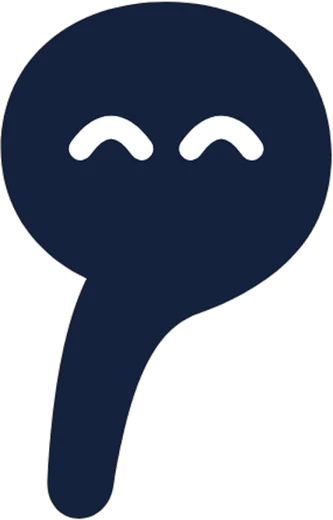
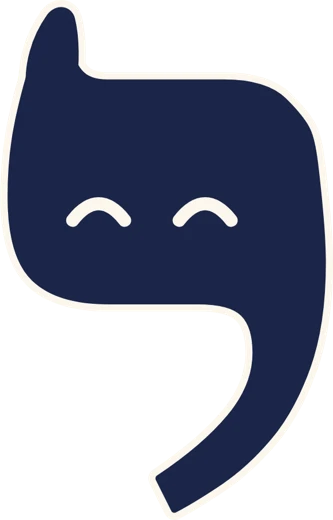
Reader opens on version C with the new letter-shaped Yud
A new edition, "יוד חדשה", shows version C with Yud redrawn as the
letter yud on every page (page 12, which has no Yud, stays as C) and is
the default; the other editions stay for comparison. The closing page
shows the new Yud. The saved reading position moves to a new storage
key so returning readers start on the new edition.

Claude-Session: https://claude.ai/code/session_01RM9coW85MP8Bs6L5qHdrTp

diff --git a/production/reader/index.html b/production/reader/index.html
@@ -46,7 +46,7 @@ header.top{flex:none;display:flex;align-items:center;justify-content:space-betwe
 .t-series{font-size:12px;letter-spacing:.08em;color:var(--chrome-soft)}
 .t-book{font-family:var(--serif);font-weight:700;font-size:21px;line-height:1.2}
 .eds-block{display:flex;flex-direction:column;align-items:flex-end;gap:4px}
-.eds{display:flex;align-items:center;gap:6px}
+.eds{display:flex;align-items:center;justify-content:flex-end;flex-wrap:wrap;gap:6px}
 .eds-label{font-size:13px;color:var(--chrome-soft);margin-inline-end:2px}
 .chip{border:1px solid var(--chip-line);background:var(--chip);border-radius:999px;min-width:40px;height:34px;padding:0 12px;font-size:14px;font-weight:600;cursor:pointer;font-variant-numeric:tabular-nums}
 .chip[aria-pressed="true"]{background:var(--chip-on);border-color:var(--chip-on);color:var(--chip-on-ink)}
@@ -174,6 +174,8 @@ nav.bar{flex:none;display:flex;align-items:center;justify-content:center;gap:10p
   .title-block{display:none}
   header.top{justify-content:center}
   .eds-block{align-items:center}
+  .eds{justify-content:center}
+  .eds-label{display:none}
   .nav .lbl{display:none}
   .nav{width:44px;padding:0;justify-content:center}
   .pos{min-width:7.5em}
@@ -223,12 +225,13 @@ nav.bar{flex:none;display:flex;align-items:center;justify-content:center;gap:10p
 </section>
 
 <script>
-const DATA = {"pages": [{"id": "cover", "num": "", "text": "הַמִּלָּה הָאַחֲרוֹנָה", "sub": "יוּד הַקְּטַנָּה וְהַקְּרִיאָה שֶׁל כּוֹרֶשׁ מֶלֶךְ פָּרַס", "source": "", "layers": [], "v": ["A", "B", "C", "D"], "rec": "A"}, {"id": "p01", "num": "1", "text": "בַּמִּלָּה הָאַחֲרוֹנָה שֶׁל הַתַּנַ״ךְ גָּרָה יוּד, הָאוֹת הַכִּי קְטַנָּה וְהַכִּי בַּסּוֹף.", "sub": "", "source": "דברי הימים ב לו, כג (המילה האחרונה: \"וְיָעַל\"); סדר הספרים: בבא בתרא יד ע\"ב", "layers": [["פשט", "המגילה היא עיר ישנה של שורות. בקצה הרחוב האחרון, למטה משמאל, דולק חלון אחד בגודל של מילה: וְיָעַל. יוד בתוכו."], ["רמז", "24 רחובות, כמו 24 ספרי התנ״ך: 5 בתורה, 8 בנביאים ו-11 בכתובים. זה גם מספר הפרקים בסדרה. החלון של יוד נמצא בקצה הרחוב ה-24, הספר האחרון."], ["דרש", "נוצה שחורה וקטנה של עורב. המדרש אומר: אם כל באי העולם יתאספו להלבין כנף אחת של עורב, הם לא יוכלו. וכך, אם יתאספו לעקור יוד אחת מן התורה, האות הקטנה מכולן, גם זה לא יצליח. יוד במקום שלה, ואף אחד לא יזיז אותה משם."], ["סוד", "בתחילת הרחוב הראשון, למעלה מימין, מהבהבת גחלת זעירה, כי גם במילה הראשונה בתנ״ך, בְּרֵאשִׁית, יש יוד. האור שבסוף קשור לאור שבהתחלה, “כשלהבת קשורה בגחלת”. יוד עוד לא יודעת, אבל ההתחלה כבר דולקת."]], "v": ["A", "B", "C", "D"], "rec": "A"}, {"id": "p02", "num": "2", "text": "\"עַל נַהֲרוֹת בָּבֶל, שָׁם יָשַׁבְנוּ, גַּם בָּכִינוּ, בְּזָכְרֵנוּ אֶת צִיּוֹן.\"", "sub": "", "source": "תהילים קלז, א (ציטוט מדויק)", "layers": [["פשט", "לילה. גולים יושבים בשורה על גדת תעלה, ראשיהם מורכנים ופניהם שמאלה, אל ציון. מעבר למים חומת לבנים כחולה וסגורה. יוד על ענף צפצפה."], ["רמז", "שבעים נצנוצים קטנים על המים. האות ע׳ במילה וְיָעַל שווה 70, וזה מספר השנים שנקצב לבבל: “לְפִי מְלֹאת לְבָבֶל שִׁבְעִים שָׁנָה”. המספר שוכב על המים של בבל ומחכה שיתמלא."], ["דרש", "בית קטן ונמוך בקצה השורה, ובו פתח אחד מואר באור חם. על הפסוק “וָאֱהִי לָהֶם לְמִקְדָּשׁ מְעַט” אמרו חז״ל: אלו בתי הכנסת ובתי המדרש שבבבל. גם רחוק מהבית היה להם מקום קטן של אור. ובאותו עמוד בגמרא: “גלו לבבל, שכינה עמהן”."]], "v": ["A", "B", "C", "D"], "rec": "B"}, {"id": "p03", "num": "3", "text": "שָׁנִים רַבּוֹת שָׁתְקוּ הַכִּנּוֹרוֹת עַל הָעֲרָבִים. וְיוּד חִכְּתָה.", "sub": "", "source": "תהילים קלז, ב (\"עַל עֲרָבִים בְּתוֹכָהּ תָּלִינוּ כִּנֹּרוֹתֵינוּ\"). \"שָׁנִים רַבּוֹת\" ולא שבעים: שבעים השנה הן מניין הנבואה (ירמיהו כט, י; דברי הימים ב לו, כא), ראו הערה 3", "layers": [["פשט", "תקריב: שלושה כינורות עתיקים תלויים שותקים על ענף אלכסוני, המיתרים רפויים ומאובקים. יוד יושבת על אחד מהם ומחכה."], ["דרש", "ספרו את המיתרים: 7, 8 ו-10. הגמרא אומרת שלכינור של המקדש היו שבעה מיתרים, לכינור של ימות המשיח יהיו שמונה, ולכינור של העולם הבא עשרה. יוד יושבת על הכינור בן עשרת המיתרים, כי י׳ שווה 10, ובגמרא גם נאמר ש“העולם הבא נברא ביו״ד”. הכינורות שותקים עכשיו, אבל העתיד כבר תלוי על הענף."]], "v": ["A", "B", "C", "D"], "rec": "C"}, {"id": "p04", "num": "4", "text": "", "sub": "עמוד בלי מילים", "source": "עזרא א, א; דברי הימים ב לו, כב (\"הֵעִיר ה׳\"): רמז חזותי בלבד, בלי ציור של הקב\"ה", "layers": [["פשט", "בלי מילים: סרט זהב אחד של רוח לילה עובר מימין לשמאל. רואים את הרוח רק במה שהיא מכופפת: עלים, להבת נר, יריעת אוהל ומיתר אחד. יוד מתעוררת על הכינור שמתנדנד."], ["דרש", "רוח לילה שמנגנת בכינור מעצמה. כך מספרת הגמרא על דוד: מעל מיטתו היה תלוי כינור. בחצות הלילה באה רוח צפונית ונשבה בו, והכינור ניגן מאליו. דוד היה קם ולומד עד עלות השחר. גם כאן הרוח מנגנת, ומי שמתעוררת היא יוד."]], "v": ["A", "B", "C", "D"], "rec": "A"}, {"id": "p05", "num": "5", "text": "הֵעִיר ה׳ אֶת רוּחַ כּוֹרֶשׁ מֶלֶךְ פָּרַס.", "sub": "", "source": "דברי הימים ב לו, כב; עזרא א, א (ציטוט מדויק)", "layers": [["פשט", "חזית ארמון בהירה בסגנון פסרגדאי. כל החלונות חשוכים חוץ מפתח גבוה אחד מוזהב. סרט הזהב זורם לתוכו, ויוד אוחזת בו בזנב ובוחרת להמשיך איתו."], ["רמז", "בתחתית התמונה, לרגלי הארמון, מציץ גן עם ארבע תעלות מים שנפגשות באמצע. המילה פַּרְדֵּס קשורה למילה הפרסית העתיקה לגן מוקף חומה, ובתנ״ך היא מופיעה בשיר השירים ד, יג, בקהלת ב, ה ובנחמיה ב, ח (“שֹׁמֵר הַפַּרְדֵּס אֲשֶׁר לַמֶּלֶךְ”). ארבע התעלות הן ארבע השכבות של הספר: פשט, רמז, דרש וסוד."], ["סוד", "הרוח באה מלמעלה ומזמינה, ויוד בוחרת להיאחז בה. במקום שבו הזנב שלה נכרך סביב הסרט, הזהב מתחזק: שם נפגשת ההתעוררות שבאה מלמעלה עם הבחירה שבאה מלמטה. גם הפשט אומר זאת. אותה מילה, “הֵעִיר”, נאמרת על כורש (עזרא א, א) ועל העם: “לְכֹל הֵעִיר הָאֱלֹהִים אֶת רוּחוֹ לַעֲלוֹת” (עזרא א, ה). אבל לעלות, כל אחד צריך בעצמו."]], "v": ["A", "B", "C", "D"], "rec": "A"}, {"id": "p06", "num": "6", "text": "\"מִי בָכֶם מִכָּל עַמּוֹ, ה׳ אֱלֹהָיו עִמּוֹ, וְיָעַל!\"", "sub": "", "source": "דברי הימים ב לו, כג: סוף הפסוק כלשונו, סוף התנ\"ך. הכרוז: \"וַיַּעֲבֶר קוֹל בְּכָל מַלְכוּתוֹ וְגַם בְּמִכְתָּב\" (לו, כב)", "layers": [["פשט", "שחר. כרוז פרסי קטן עומד על מדרגה ליד חומת לבנים מזוגגות, ובידו מגילה פתוחה בלי כתב. קשתות קול זהובות רצות לאורך רצועות העיטור אל יוד, שיושבת בראש החומה."], ["רמז", "שלוש קשתות קול שוות בדיוק. בסוף הפסוק האחרון יש שלוש מילים עם אותו ערך מספרי: עַמּוֹ 116, עִמּוֹ 116 ווְיָעַל 116. העם, האלוהים שעמו והעלייה, כולם באותו מספר."]], "v": ["A", "B", "C", "D"], "rec": "A"}, {"id": "p07", "num": "7", "text": "וְיָעַל?! יוּד קָפְצָה. \"זֹאת הַמִּלָּה שֶׁלִּי!\"", "sub": "", "source": "דברי הימים ב לו, כג; עזרא א, ג (\"וְיַעַל לִירוּשָׁלַיִם\")", "layers": [["פשט", "תקריב על שדה זהב: יוד באמצע קפיצה של שמחה, וקשתות הקול מסתלסלות סביבה כמו סרטים. הרחק למטה, קו של גבעות ושביל שעולה שמאלה."], ["רמז", "סביב יוד מסתלסלות בדיוק עשר קשתות קול. י׳ שווה 10, והעולם נברא בעשרה מאמרות. הגמרא מוסיפה ש“בְּרֵאשִׁית” עצמה נחשבת מאמר. כלומר, הראשון מבין עשרת המאמרות הוא בדיוק המקום שאליו יוד תגיע בסוף הסדרה."], ["דרש", "בראש השביל, על הגבעה הרחוקה, מונחת אבן בנייה אחת ומחכה. חז״ל אמרו שהקב״ה “קובל” על כורש: הנביא אמר עליו “הוּא יִבְנֶה”, וכורש אמר רק “וְיָעַל”, כלומר מי שרוצה, שיעלה. הוא לא בנה בעצמו, אלא השאיר את הבנייה למי שעולה. זו המילה שיוד כל כך שמחה בה: מילה שמזמינה כל אחד לבוא ולבנות."], ["סוד", "כל עשר הקשתות יוצאות מנקודה אחת: נקודת האור הלבנה שמעל יוד. היוד היא הנקודה הראשונה. כל אות נכתבת מנקודה, ובקבלה י׳ היא החכמה, הנקודה שממנה הכול מתפשט. מנקודה אחת יוצאות עשר."]], "v": ["A", "B", "C", "D"], "rec": "B"}, {"id": "p08", "num": "8", "text": "אָרְזוּ צְרוֹרוֹת לִירוּשָׁלַיִם. הַשְּׁכֵנִים נָתְנוּ כֶּסֶף וְזָהָב. הַגָּמָל, כְּמוֹ כָּל גָּמָל, רָטַן.", "sub": "", "source": "עזרא א, ד; א, ו (השכנים נותנים כסף, זהב, רכוש ובהמה). הגמל הרוטן ספרותי", "layers": [["פשט", "חצר אריזה בבוקר: גמל גדול רוטן כורע בקדמת התמונה. סבתא ואב אורזים צרורות, ושני שכנים בגלימות בבליות מגישים קערת כסף וכד זהב. יוד צוחקת על הצרור הגבוה."], ["רמז", "אותה רוח זהב מעמודים 4–5 מרימה ציצית אחת ברתמה של הגמל. בפשט אותה מילה נאמרת פעמיים: ה׳ “הֵעִיר” את רוח כורש (עזרא א, א), וגם את רוחם של העולים, “לְכֹל הֵעִיר הָאֱלֹהִים אֶת רוּחוֹ לַעֲלוֹת” (עזרא א, ה). הגמל אולי רוטן, אבל הרוח כבר כאן."], ["דרש", "ליד הרגליים של אחד השכנים מונח צרור קטן וקשור. אולי גם הוא מצטרף? המשנה מונה גרים בין אלה שעלו מבבל. הגמרא אומרת שהגלות הייתה כדי “שיתוספו עליהם גרים”, כמו מי שזורע מעט כדי לקצור הרבה."]], "v": ["A", "B", "C", "D"], "rec": "A"}, {"id": "p09", "num": "9", "text": "גַּם כְּלֵי בֵּית ה׳ חוֹזְרִים הַבַּיְתָה. יוּד הֵצִיצָה מִתּוֹךְ קְעָרָה.", "sub": "", "source": "עזרא א, ז–יא (כורש מוציא את הכלים, ומתרדת הגזבר סופר אותם לששבצר). פשט, בלי מספר כלים. ההצצה של יוד ספרותית", "layers": [["פשט", "תקריב: שתי ידיים, אחת בשרוול פרסי מקופל ואחת בשרוול יהודי פשוט, מעבירות קערת זהב אחת מסף האוצר החשוך אל אור היום. יוד מציצה מעל השפה."], ["רמז", "על שפת הקערה יש 30 נקודות קטנות. ברשימת הכלים בעזרא מופיעים בדיוק “כְּפוֹרֵי זָהָב שְׁלֹשִׁים”, שלושים קערות זהב, והקערה של יוד היא אחת מהן. 30 הוא גם ל׳, האות האחרונה של וְיָעַל ושל התנ״ך כולו. בעמוד הבא המספר יחזור."]], "v": ["A", "B", "C", "D"], "rec": "C"}, {"id": "p10", "num": "10", "text": "חֲמוֹרִים: שֵׁשֶׁת אֲלָפִים שְׁבַע מֵאוֹת וְעֶשְׂרִים! יוּד הִתְבַּלְבְּלָה בַּחֲמוֹר הַשְּׁלֹשִׁים.", "sub": "", "source": "עזרא ב, סז (\"חֲמֹרִים שֵׁשֶׁת אֲלָפִים שְׁבַע מֵאוֹת וְעֶשְׂרִים\"); המקבילה בנחמיה ז, סח (לאמת)", "layers": [["פשט", "קנה מידה קומי: שורות זיגזג אינסופיות של חמורים זהים צועדות שמאלה עד האופק. יוד יושבת על סלע בקדמת התמונה, והעיניים שלה מסתחררות."], ["רמז", "יוד התבלבלה בחמור השלושים, והחמור השלושים באמת מסובב את הראש ומסתכל עליה. 30 הוא ל׳, האות האחרונה של התנ״ך. יוד נתקעה בדיוק בסוף, אז אין פלא שבעוד רגע היא תרצה לחזור להתחלה."]], "v": ["A", "B", "C", "D"], "rec": "B"}, {"id": "p11", "num": "11", "text": "יַלְדָּה קְטַנָּה שָׁאֲלָה: \"גַּם אֲנִי? אֲנִי עוֹד קְטַנָּה.\" \"גַּם אַתְּ.\"", "sub": "", "source": "דברי הימים ב לו, כג (\"מִי בָכֶם מִכָּל עַמּוֹ\": ההזמנה לכל אחד). הדו-שיח ספרותי", "layers": [["פשט", "בגובה העיניים של ילדה: יער של רגלי חמורים ושולי גלימות עובר שמאלה. באמצע עומדת ילדה קטנה עם צרור, ומלמעלה מושטת אליה היד הפתוחה של אמא. יוד יושבת על הצרור."], ["רמז", "התשובה לשאלה של הילדה כבר כתובה בפסוק: מִי = 50 (מ׳ 40, י׳ 10), וכָּל = 50 (כ׳ 20, ל׳ 30). מי ששואל “מי? גם אני?” שווה בדיוק ל“כל”. לכן בשולי השמלה של הילדה יש אותה רצועה ארוגה שיש על השרוול של אמא, רק קטנה יותר."], ["דרש", "מהקשר של הצרור מציץ ענף ערבה קטן מנהרות בבל. המדרש אומר שהערבה היא היחידה מארבעת המינים שאין בה לא טעם ולא ריח, ובכל זאת אוגדים אותה יחד עם כולם, “אגודה אחת”. גם הקטנה ביותר שייכת."]], "v": ["A", "B", "C", "D"], "rec": "B"}, {"id": "p12", "num": "12", "text": "בְּלִי יוּד — \"וְעַל\". עִם יוּד — \"וְיָעַל\": מִישֶׁהוּ עוֹלֶה!", "sub": "", "source": "דברי הימים ב לו, כג. משחק לשון של המחבר, לא מדרש: \"וְיָעַל\" = שֶׁיַּעֲלֶה", "layers": [["פשט", "עמוד גרפי בשני חצאים. מימין, בוורוד מאובק: שלוש משבצות ורווח, “וְעַל”, בלי יוד. משמאל, בזהב חם: ארבע משבצות, ויוד במשבצת השנייה מימין, “וְיָעַל”. מישהו עולה!"], ["רמז", "ההתחלה והסוף כמו בראי. במילה האחרונה בתנ״ך, וְיָעַל, היוד היא האות השנייה מההתחלה. במילה הראשונה, בְּרֵאשִׁית, היא האות השנייה מהסוף. אותו מקום, רק הפוך."], ["דרש", "על רכס הדיונה הרחוק, בצד הזהב, עומד כינור זעיר עם מיתרים מתוחים. חז״ל דרשו את היוד של העתיד: כתוב “אָז יָשִׁיר מֹשֶׁה” ולא “שר”, ומכאן למדו הבטחה לעתיד, תחיית המתים מן התורה. היוד הופכת את מה שהיה למה שעוד יהיה. כך גם וְיָעַל: לא “עלה” אלא “שיעלה”. והכינורות השותקים מעמוד 3 עוד ישירו."]], "v": ["A", "B", "C"], "rec": "C"}, {"id": "p13", "num": "13", "text": "הַשַּׁיָּרָה עָלְתָה קָדִימָה. יוּד הִסְתַּכְּלָה אָחוֹרָה: \"אִם אֲנִי בַּסּוֹף... מָה יֵשׁ בַּהַתְחָלָה?\"", "sub": "", "source": "עזרא ב, א (\"הָעֹלִים מִשְּׁבִי הַגּוֹלָה\"); עזרא א, יא (\"עִם הֵעָלוֹת הַגּוֹלָה מִבָּבֶל לִירוּשָׁלָםִ\"). שאלת יוד: רעיון הסדרה", "layers": [["פשט", "שקיעה רחבה: השיירה כולה מתפתלת שמאלה על הדיונות. לבד על רכס, למטה מימין, יוד פונה לצד השני, אל זוהר רחוק באופק הימני."], ["רמז", "נקודת האור יושבת בדיוק בתוך קשת הדקלים שבאופק המזרחי. בעברית, קֶדֶם הוא גם מזרח וגם “לפני הכול”. על “וַיִּטַּע ה׳ אֱלֹהִים גַּן בְּעֵדֶן מִקֶּדֶם” רש״י מפרש “במזרחו של עדן”, ואונקלוס מתרגם “מִלְּקַדְמִין”, מלפנים. כשיוד מביטה מזרחה, היא מביטה אל ההתחלה."], ["סוד", "בפעם הראשונה נקודת האור רחוקה, והיא הקטנה והנקייה ביותר בספר: נקודה כמעט בלי גודל, שמחכה בהתחלה. בזוהר, בתחילת הבריאה יש “נקודה חדא עלאה”, נקודה עליונה אחת שממנה מתחיל הכול, “ועל דא אקרי ראשית”. מה שיש בהתחלה הוא נקודה של אור, ויוד עוד תגלה שזו היא עצמה."]], "v": ["A", "B", "C", "D"], "rec": "B"}, {"id": "p14", "num": "14", "text": "\"אֲנִי אֶעֱלֶה,\" אָמְרָה יוּד, \"אֲבָל אָחוֹרָה — עַד הַהַתְחָלָה!\"", "sub": "", "source": "משחק על \"וְיָעַל\" (דברי הימים ב לו, כג). החלטת יוד ספרותית", "layers": [["פשט", "אור ראשון: יוד זקופה ונחושה פונה אל הקצה הימני, ומנופפת בזנבה לשלום לנקודות השיירה הרחוקות משמאל. הצל שלה נמתח ארוך שמאלה."], ["רמז", "יוד יוצאת מהאות האחרונה של התנ״ך אל האות הראשונה שלו: מל׳ של וְיָעַל אל ב׳ של בְּרֵאשִׁית. יחד ל׳ וב׳ הן לֵב. מסע אחורה, מהסוף להתחלה, הוא מסע של הלב."], ["דרש", "כוכב השחר הוא הנקודה האחרונה שנשארה בשמיים. הגמרא שואלת: “למה נמשלה אסתר לשחר?”, ועונה: “מה שחר סוף כל הלילה, אף אסתר סוף כל הנסים”. האור שמסיים את הלילה הוא גם האור שפותח את היום. ובמסע אחורה, אסתר מחכה בפרק 4."]], "v": ["A", "B", "C", "D"], "rec": "A"}, {"id": "p15", "num": "15", "text": "בֵּין הַשּׁוּרוֹת הִבְהֵב חוּט זָהָב. יוּד אָחֲזָה בּוֹ בַּזָּנָב — וְטִפְּסָה.", "sub": "", "source": "חוט הזהב: אמצעי המסע של הסדרה (ספרותי, אין לו מקור)", "layers": [["פשט", "הדיונות הופכות לשורות של המגילה הגדולה, וחוט זהב דק מתפתל ביניהן למעלה וימינה. יוד אוחזת בו בזנבה המסולסל ומטפסת, שמחה."], ["רמז", "לאורך החוט יש בדיוק 15 ניצני לוטוס, כמו 15 מזמורי “שִׁיר הַמַּעֲלוֹת” בתהילים (קכ–קלד), שכנגדם היו 15 מדרגות במקדש. מַעֲלוֹת ווְיָעַל באים מאותו שורש, ע-ל-ה. ביניהם גם “שִׁיר הַמַּעֲלוֹת בְּשׁוּב ה׳ אֶת שִׁיבַת צִיּוֹן הָיִינוּ כְּחֹלְמִים” (תהילים קכו, א). וזה עמוד 15."], ["סוד", "מתוך 15 הניצנים, 5 נמצאים מאחורי יוד, בחלק שכבר טיפסה, ו-10 לפניה. ה׳ היא 5 וי׳ היא 10, ויחד הן יָהּ. “כִּי בְּיָהּ ה׳ צוּר עוֹלָמִים”: העולם הזה נברא בה״א, והעולם הבא ביו״ד. יוד מטפסת מן הה״א אל היו״ד, ומה שמחכה לה בסוף הדרך, בהתחלה, הוא יוד."]], "v": ["A", "B", "C", "D"], "rec": "B"}, {"id": "p16", "num": "16", "text": "טַק... טַק... טַק... מִי בּוֹנֶה שָׁם?", "sub": "", "source": "רמז לפרק 2: \"לְכוּ וְנִבְנֶה אֶת חוֹמַת יְרוּשָׁלַיִם\" (נחמיה ב, יז). החומה שייכת לימי נחמיה (כ-445 לפנה\"ס), לא לשיירה של 538", "layers": [["פשט", "שחר מוזהב: פינה של חומת אבן ירושלמית בהירה ושבורה ממלאת את השליש הימני של התמונה. חוט הזהב נכנס לתוכה, ויוד מביטה אלינו בסקרנות. מאחורי החומה מישהו בונה: טק, טק, טק."], ["רמז", "הפרצה בחומה היא בדיוק בצורת יוד. וגם בכתיב חסרה לירושלים יוד: כמעט בכל התנ״ך, וגם בפסוק האחרון שלו (“לִבְנוֹת לוֹ בַיִת בִּירוּשָׁלַםִ”), השם נכתב ירושלם, בלי יוד, ונקרא יְרוּשָׁלַיִם. העיר מחכה ליוד שלה."], ["דרש", "אור עובר דרך הפרצה הקטנה, ועל האדמה שלפני החומה הוא נפרש לשער רחב וגבוה. המדרש אומר: “פתחו לי פתח אחד... כחודה של מחט, ואני פותח לכם פתחים שיהיו עגלות וקרוניות נכנסות בו”. פתח קטן כמו יוד, ומעבר לו דרך רחבה לכולם."]], "v": ["A", "B", "C", "D"], "rec": "B"}], "teaser": "בַּפֶּרֶק הַבָּא: חוֹמָה שְׁבוּרָה, הַרְבֵּה יָדַיִם, וְקוֹל אֶחָד: \"לְכוּ וְנִבְנֶה!\" וּבַחוֹמָה — חוֹר קָטָן אֶחָד, בְּדִיּוּק בַּגֹּדֶל שֶׁל יוּד.", "questions": ["יוּד שָׁאֲלָה: \"מָה יֵשׁ בַּהַתְחָלָה?\" מָה אַתֶּם חוֹשְׁבִים שֶׁהִיא תִּמְצָא?", "הַיַּלְדָּה שָׁאֲלָה: \"גַּם אֲנִי?\" מָתַי הִרְגַּשְׁתֶּם קְטַנִּים — וְגִלִּיתֶם שֶׁגַּם אַתֶּם חֲשׁוּבִים?", "מָה הֱיִיתֶם אוֹרְזִים בַּצְּרוֹר לַדֶּרֶךְ הָאֲרֻכָּה לִירוּשָׁלַיִם?"], "next": "יוּד וְהַחוֹמָה"};
+const DATA = {"pages": [{"id": "cover", "num": "", "text": "הַמִּלָּה הָאַחֲרוֹנָה", "sub": "יוּד הַקְּטַנָּה וְהַקְּרִיאָה שֶׁל כּוֹרֶשׁ מֶלֶךְ פָּרַס", "source": "", "layers": [], "rec": "A", "v": ["A", "B", "C", "D", "Y"]}, {"id": "p01", "num": "1", "text": "בַּמִּלָּה הָאַחֲרוֹנָה שֶׁל הַתַּנַ״ךְ גָּרָה יוּד, הָאוֹת הַכִּי קְטַנָּה וְהַכִּי בַּסּוֹף.", "sub": "", "source": "דברי הימים ב לו, כג (המילה האחרונה: \"וְיָעַל\"); סדר הספרים: בבא בתרא יד ע\"ב", "layers": [["פשט", "המגילה היא עיר ישנה של שורות. בקצה הרחוב האחרון, למטה משמאל, דולק חלון אחד בגודל של מילה: וְיָעַל. יוד בתוכו."], ["רמז", "24 רחובות, כמו 24 ספרי התנ״ך: 5 בתורה, 8 בנביאים ו-11 בכתובים. זה גם מספר הפרקים בסדרה. החלון של יוד נמצא בקצה הרחוב ה-24, הספר האחרון."], ["דרש", "נוצה שחורה וקטנה של עורב. המדרש אומר: אם כל באי העולם יתאספו להלבין כנף אחת של עורב, הם לא יוכלו. וכך, אם יתאספו לעקור יוד אחת מן התורה, האות הקטנה מכולן, גם זה לא יצליח. יוד במקום שלה, ואף אחד לא יזיז אותה משם."], ["סוד", "בתחילת הרחוב הראשון, למעלה מימין, מהבהבת גחלת זעירה, כי גם במילה הראשונה בתנ״ך, בְּרֵאשִׁית, יש יוד. האור שבסוף קשור לאור שבהתחלה, “כשלהבת קשורה בגחלת”. יוד עוד לא יודעת, אבל ההתחלה כבר דולקת."]], "rec": "A", "v": ["A", "B", "C", "D", "Y"]}, {"id": "p02", "num": "2", "text": "\"עַל נַהֲרוֹת בָּבֶל, שָׁם יָשַׁבְנוּ, גַּם בָּכִינוּ, בְּזָכְרֵנוּ אֶת צִיּוֹן.\"", "sub": "", "source": "תהילים קלז, א (ציטוט מדויק)", "layers": [["פשט", "לילה. גולים יושבים בשורה על גדת תעלה, ראשיהם מורכנים ופניהם שמאלה, אל ציון. מעבר למים חומת לבנים כחולה וסגורה. יוד על ענף צפצפה."], ["רמז", "שבעים נצנוצים קטנים על המים. האות ע׳ במילה וְיָעַל שווה 70, וזה מספר השנים שנקצב לבבל: “לְפִי מְלֹאת לְבָבֶל שִׁבְעִים שָׁנָה”. המספר שוכב על המים של בבל ומחכה שיתמלא."], ["דרש", "בית קטן ונמוך בקצה השורה, ובו פתח אחד מואר באור חם. על הפסוק “וָאֱהִי לָהֶם לְמִקְדָּשׁ מְעַט” אמרו חז״ל: אלו בתי הכנסת ובתי המדרש שבבבל. גם רחוק מהבית היה להם מקום קטן של אור. ובאותו עמוד בגמרא: “גלו לבבל, שכינה עמהן”."]], "rec": "B", "v": ["A", "B", "C", "D", "Y"]}, {"id": "p03", "num": "3", "text": "שָׁנִים רַבּוֹת שָׁתְקוּ הַכִּנּוֹרוֹת עַל הָעֲרָבִים. וְיוּד חִכְּתָה.", "sub": "", "source": "תהילים קלז, ב (\"עַל עֲרָבִים בְּתוֹכָהּ תָּלִינוּ כִּנֹּרוֹתֵינוּ\"). \"שָׁנִים רַבּוֹת\" ולא שבעים: שבעים השנה הן מניין הנבואה (ירמיהו כט, י; דברי הימים ב לו, כא), ראו הערה 3", "layers": [["פשט", "תקריב: שלושה כינורות עתיקים תלויים שותקים על ענף אלכסוני, המיתרים רפויים ומאובקים. יוד יושבת על אחד מהם ומחכה."], ["דרש", "ספרו את המיתרים: 7, 8 ו-10. הגמרא אומרת שלכינור של המקדש היו שבעה מיתרים, לכינור של ימות המשיח יהיו שמונה, ולכינור של העולם הבא עשרה. יוד יושבת על הכינור בן עשרת המיתרים, כי י׳ שווה 10, ובגמרא גם נאמר ש“העולם הבא נברא ביו״ד”. הכינורות שותקים עכשיו, אבל העתיד כבר תלוי על הענף."]], "rec": "C", "v": ["A", "B", "C", "D", "Y"]}, {"id": "p04", "num": "4", "text": "", "sub": "עמוד בלי מילים", "source": "עזרא א, א; דברי הימים ב לו, כב (\"הֵעִיר ה׳\"): רמז חזותי בלבד, בלי ציור של הקב\"ה", "layers": [["פשט", "בלי מילים: סרט זהב אחד של רוח לילה עובר מימין לשמאל. רואים את הרוח רק במה שהיא מכופפת: עלים, להבת נר, יריעת אוהל ומיתר אחד. יוד מתעוררת על הכינור שמתנדנד."], ["דרש", "רוח לילה שמנגנת בכינור מעצמה. כך מספרת הגמרא על דוד: מעל מיטתו היה תלוי כינור. בחצות הלילה באה רוח צפונית ונשבה בו, והכינור ניגן מאליו. דוד היה קם ולומד עד עלות השחר. גם כאן הרוח מנגנת, ומי שמתעוררת היא יוד."]], "rec": "A", "v": ["A", "B", "C", "D", "Y"]}, {"id": "p05", "num": "5", "text": "הֵעִיר ה׳ אֶת רוּחַ כּוֹרֶשׁ מֶלֶךְ פָּרַס.", "sub": "", "source": "דברי הימים ב לו, כב; עזרא א, א (ציטוט מדויק)", "layers": [["פשט", "חזית ארמון בהירה בסגנון פסרגדאי. כל החלונות חשוכים חוץ מפתח גבוה אחד מוזהב. סרט הזהב זורם לתוכו, ויוד אוחזת בו בזנב ובוחרת להמשיך איתו."], ["רמז", "בתחתית התמונה, לרגלי הארמון, מציץ גן עם ארבע תעלות מים שנפגשות באמצע. המילה פַּרְדֵּס קשורה למילה הפרסית העתיקה לגן מוקף חומה, ובתנ״ך היא מופיעה בשיר השירים ד, יג, בקהלת ב, ה ובנחמיה ב, ח (“שֹׁמֵר הַפַּרְדֵּס אֲשֶׁר לַמֶּלֶךְ”). ארבע התעלות הן ארבע השכבות של הספר: פשט, רמז, דרש וסוד."], ["סוד", "הרוח באה מלמעלה ומזמינה, ויוד בוחרת להיאחז בה. במקום שבו הזנב שלה נכרך סביב הסרט, הזהב מתחזק: שם נפגשת ההתעוררות שבאה מלמעלה עם הבחירה שבאה מלמטה. גם הפשט אומר זאת. אותה מילה, “הֵעִיר”, נאמרת על כורש (עזרא א, א) ועל העם: “לְכֹל הֵעִיר הָאֱלֹהִים אֶת רוּחוֹ לַעֲלוֹת” (עזרא א, ה). אבל לעלות, כל אחד צריך בעצמו."]], "rec": "A", "v": ["A", "B", "C", "D", "Y"]}, {"id": "p06", "num": "6", "text": "\"מִי בָכֶם מִכָּל עַמּוֹ, ה׳ אֱלֹהָיו עִמּוֹ, וְיָעַל!\"", "sub": "", "source": "דברי הימים ב לו, כג: סוף הפסוק כלשונו, סוף התנ\"ך. הכרוז: \"וַיַּעֲבֶר קוֹל בְּכָל מַלְכוּתוֹ וְגַם בְּמִכְתָּב\" (לו, כב)", "layers": [["פשט", "שחר. כרוז פרסי קטן עומד על מדרגה ליד חומת לבנים מזוגגות, ובידו מגילה פתוחה בלי כתב. קשתות קול זהובות רצות לאורך רצועות העיטור אל יוד, שיושבת בראש החומה."], ["רמז", "שלוש קשתות קול שוות בדיוק. בסוף הפסוק האחרון יש שלוש מילים עם אותו ערך מספרי: עַמּוֹ 116, עִמּוֹ 116 ווְיָעַל 116. העם, האלוהים שעמו והעלייה, כולם באותו מספר."]], "rec": "A", "v": ["A", "B", "C", "D", "Y"]}, {"id": "p07", "num": "7", "text": "וְיָעַל?! יוּד קָפְצָה. \"זֹאת הַמִּלָּה שֶׁלִּי!\"", "sub": "", "source": "דברי הימים ב לו, כג; עזרא א, ג (\"וְיַעַל לִירוּשָׁלַיִם\")", "layers": [["פשט", "תקריב על שדה זהב: יוד באמצע קפיצה של שמחה, וקשתות הקול מסתלסלות סביבה כמו סרטים. הרחק למטה, קו של גבעות ושביל שעולה שמאלה."], ["רמז", "סביב יוד מסתלסלות בדיוק עשר קשתות קול. י׳ שווה 10, והעולם נברא בעשרה מאמרות. הגמרא מוסיפה ש“בְּרֵאשִׁית” עצמה נחשבת מאמר. כלומר, הראשון מבין עשרת המאמרות הוא בדיוק המקום שאליו יוד תגיע בסוף הסדרה."], ["דרש", "בראש השביל, על הגבעה הרחוקה, מונחת אבן בנייה אחת ומחכה. חז״ל אמרו שהקב״ה “קובל” על כורש: הנביא אמר עליו “הוּא יִבְנֶה”, וכורש אמר רק “וְיָעַל”, כלומר מי שרוצה, שיעלה. הוא לא בנה בעצמו, אלא השאיר את הבנייה למי שעולה. זו המילה שיוד כל כך שמחה בה: מילה שמזמינה כל אחד לבוא ולבנות."], ["סוד", "כל עשר הקשתות יוצאות מנקודה אחת: נקודת האור הלבנה שמעל יוד. היוד היא הנקודה הראשונה. כל אות נכתבת מנקודה, ובקבלה י׳ היא החכמה, הנקודה שממנה הכול מתפשט. מנקודה אחת יוצאות עשר."]], "rec": "B", "v": ["A", "B", "C", "D", "Y"]}, {"id": "p08", "num": "8", "text": "אָרְזוּ צְרוֹרוֹת לִירוּשָׁלַיִם. הַשְּׁכֵנִים נָתְנוּ כֶּסֶף וְזָהָב. הַגָּמָל, כְּמוֹ כָּל גָּמָל, רָטַן.", "sub": "", "source": "עזרא א, ד; א, ו (השכנים נותנים כסף, זהב, רכוש ובהמה). הגמל הרוטן ספרותי", "layers": [["פשט", "חצר אריזה בבוקר: גמל גדול רוטן כורע בקדמת התמונה. סבתא ואב אורזים צרורות, ושני שכנים בגלימות בבליות מגישים קערת כסף וכד זהב. יוד צוחקת על הצרור הגבוה."], ["רמז", "אותה רוח זהב מעמודים 4–5 מרימה ציצית אחת ברתמה של הגמל. בפשט אותה מילה נאמרת פעמיים: ה׳ “הֵעִיר” את רוח כורש (עזרא א, א), וגם את רוחם של העולים, “לְכֹל הֵעִיר הָאֱלֹהִים אֶת רוּחוֹ לַעֲלוֹת” (עזרא א, ה). הגמל אולי רוטן, אבל הרוח כבר כאן."], ["דרש", "ליד הרגליים של אחד השכנים מונח צרור קטן וקשור. אולי גם הוא מצטרף? המשנה מונה גרים בין אלה שעלו מבבל. הגמרא אומרת שהגלות הייתה כדי “שיתוספו עליהם גרים”, כמו מי שזורע מעט כדי לקצור הרבה."]], "rec": "A", "v": ["A", "B", "C", "D", "Y"]}, {"id": "p09", "num": "9", "text": "גַּם כְּלֵי בֵּית ה׳ חוֹזְרִים הַבַּיְתָה. יוּד הֵצִיצָה מִתּוֹךְ קְעָרָה.", "sub": "", "source": "עזרא א, ז–יא (כורש מוציא את הכלים, ומתרדת הגזבר סופר אותם לששבצר). פשט, בלי מספר כלים. ההצצה של יוד ספרותית", "layers": [["פשט", "תקריב: שתי ידיים, אחת בשרוול פרסי מקופל ואחת בשרוול יהודי פשוט, מעבירות קערת זהב אחת מסף האוצר החשוך אל אור היום. יוד מציצה מעל השפה."], ["רמז", "על שפת הקערה יש 30 נקודות קטנות. ברשימת הכלים בעזרא מופיעים בדיוק “כְּפוֹרֵי זָהָב שְׁלֹשִׁים”, שלושים קערות זהב, והקערה של יוד היא אחת מהן. 30 הוא גם ל׳, האות האחרונה של וְיָעַל ושל התנ״ך כולו. בעמוד הבא המספר יחזור."]], "rec": "C", "v": ["A", "B", "C", "D", "Y"]}, {"id": "p10", "num": "10", "text": "חֲמוֹרִים: שֵׁשֶׁת אֲלָפִים שְׁבַע מֵאוֹת וְעֶשְׂרִים! יוּד הִתְבַּלְבְּלָה בַּחֲמוֹר הַשְּׁלֹשִׁים.", "sub": "", "source": "עזרא ב, סז (\"חֲמֹרִים שֵׁשֶׁת אֲלָפִים שְׁבַע מֵאוֹת וְעֶשְׂרִים\"); המקבילה בנחמיה ז, סח (לאמת)", "layers": [["פשט", "קנה מידה קומי: שורות זיגזג אינסופיות של חמורים זהים צועדות שמאלה עד האופק. יוד יושבת על סלע בקדמת התמונה, והעיניים שלה מסתחררות."], ["רמז", "יוד התבלבלה בחמור השלושים, והחמור השלושים באמת מסובב את הראש ומסתכל עליה. 30 הוא ל׳, האות האחרונה של התנ״ך. יוד נתקעה בדיוק בסוף, אז אין פלא שבעוד רגע היא תרצה לחזור להתחלה."]], "rec": "B", "v": ["A", "B", "C", "D", "Y"]}, {"id": "p11", "num": "11", "text": "יַלְדָּה קְטַנָּה שָׁאֲלָה: \"גַּם אֲנִי? אֲנִי עוֹד קְטַנָּה.\" \"גַּם אַתְּ.\"", "sub": "", "source": "דברי הימים ב לו, כג (\"מִי בָכֶם מִכָּל עַמּוֹ\": ההזמנה לכל אחד). הדו-שיח ספרותי", "layers": [["פשט", "בגובה העיניים של ילדה: יער של רגלי חמורים ושולי גלימות עובר שמאלה. באמצע עומדת ילדה קטנה עם צרור, ומלמעלה מושטת אליה היד הפתוחה של אמא. יוד יושבת על הצרור."], ["רמז", "התשובה לשאלה של הילדה כבר כתובה בפסוק: מִי = 50 (מ׳ 40, י׳ 10), וכָּל = 50 (כ׳ 20, ל׳ 30). מי ששואל “מי? גם אני?” שווה בדיוק ל“כל”. לכן בשולי השמלה של הילדה יש אותה רצועה ארוגה שיש על השרוול של אמא, רק קטנה יותר."], ["דרש", "מהקשר של הצרור מציץ ענף ערבה קטן מנהרות בבל. המדרש אומר שהערבה היא היחידה מארבעת המינים שאין בה לא טעם ולא ריח, ובכל זאת אוגדים אותה יחד עם כולם, “אגודה אחת”. גם הקטנה ביותר שייכת."]], "rec": "B", "v": ["A", "B", "C", "D", "Y"]}, {"id": "p12", "num": "12", "text": "בְּלִי יוּד — \"וְעַל\". עִם יוּד — \"וְיָעַל\": מִישֶׁהוּ עוֹלֶה!", "sub": "", "source": "דברי הימים ב לו, כג. משחק לשון של המחבר, לא מדרש: \"וְיָעַל\" = שֶׁיַּעֲלֶה", "layers": [["פשט", "עמוד גרפי בשני חצאים. מימין, בוורוד מאובק: שלוש משבצות ורווח, “וְעַל”, בלי יוד. משמאל, בזהב חם: ארבע משבצות, ויוד במשבצת השנייה מימין, “וְיָעַל”. מישהו עולה!"], ["רמז", "ההתחלה והסוף כמו בראי. במילה האחרונה בתנ״ך, וְיָעַל, היוד היא האות השנייה מההתחלה. במילה הראשונה, בְּרֵאשִׁית, היא האות השנייה מהסוף. אותו מקום, רק הפוך."], ["דרש", "על רכס הדיונה הרחוק, בצד הזהב, עומד כינור זעיר עם מיתרים מתוחים. חז״ל דרשו את היוד של העתיד: כתוב “אָז יָשִׁיר מֹשֶׁה” ולא “שר”, ומכאן למדו הבטחה לעתיד, תחיית המתים מן התורה. היוד הופכת את מה שהיה למה שעוד יהיה. כך גם וְיָעַל: לא “עלה” אלא “שיעלה”. והכינורות השותקים מעמוד 3 עוד ישירו."]], "rec": "C", "v": ["A", "B", "C"]}, {"id": "p13", "num": "13", "text": "הַשַּׁיָּרָה עָלְתָה קָדִימָה. יוּד הִסְתַּכְּלָה אָחוֹרָה: \"אִם אֲנִי בַּסּוֹף... מָה יֵשׁ בַּהַתְחָלָה?\"", "sub": "", "source": "עזרא ב, א (\"הָעֹלִים מִשְּׁבִי הַגּוֹלָה\"); עזרא א, יא (\"עִם הֵעָלוֹת הַגּוֹלָה מִבָּבֶל לִירוּשָׁלָםִ\"). שאלת יוד: רעיון הסדרה", "layers": [["פשט", "שקיעה רחבה: השיירה כולה מתפתלת שמאלה על הדיונות. לבד על רכס, למטה מימין, יוד פונה לצד השני, אל זוהר רחוק באופק הימני."], ["רמז", "נקודת האור יושבת בדיוק בתוך קשת הדקלים שבאופק המזרחי. בעברית, קֶדֶם הוא גם מזרח וגם “לפני הכול”. על “וַיִּטַּע ה׳ אֱלֹהִים גַּן בְּעֵדֶן מִקֶּדֶם” רש״י מפרש “במזרחו של עדן”, ואונקלוס מתרגם “מִלְּקַדְמִין”, מלפנים. כשיוד מביטה מזרחה, היא מביטה אל ההתחלה."], ["סוד", "בפעם הראשונה נקודת האור רחוקה, והיא הקטנה והנקייה ביותר בספר: נקודה כמעט בלי גודל, שמחכה בהתחלה. בזוהר, בתחילת הבריאה יש “נקודה חדא עלאה”, נקודה עליונה אחת שממנה מתחיל הכול, “ועל דא אקרי ראשית”. מה שיש בהתחלה הוא נקודה של אור, ויוד עוד תגלה שזו היא עצמה."]], "rec": "B", "v": ["A", "B", "C", "D", "Y"]}, {"id": "p14", "num": "14", "text": "\"אֲנִי אֶעֱלֶה,\" אָמְרָה יוּד, \"אֲבָל אָחוֹרָה — עַד הַהַתְחָלָה!\"", "sub": "", "source": "משחק על \"וְיָעַל\" (דברי הימים ב לו, כג). החלטת יוד ספרותית", "layers": [["פשט", "אור ראשון: יוד זקופה ונחושה פונה אל הקצה הימני, ומנופפת בזנבה לשלום לנקודות השיירה הרחוקות משמאל. הצל שלה נמתח ארוך שמאלה."], ["רמז", "יוד יוצאת מהאות האחרונה של התנ״ך אל האות הראשונה שלו: מל׳ של וְיָעַל אל ב׳ של בְּרֵאשִׁית. יחד ל׳ וב׳ הן לֵב. מסע אחורה, מהסוף להתחלה, הוא מסע של הלב."], ["דרש", "כוכב השחר הוא הנקודה האחרונה שנשארה בשמיים. הגמרא שואלת: “למה נמשלה אסתר לשחר?”, ועונה: “מה שחר סוף כל הלילה, אף אסתר סוף כל הנסים”. האור שמסיים את הלילה הוא גם האור שפותח את היום. ובמסע אחורה, אסתר מחכה בפרק 4."]], "rec": "A", "v": ["A", "B", "C", "D", "Y"]}, {"id": "p15", "num": "15", "text": "בֵּין הַשּׁוּרוֹת הִבְהֵב חוּט זָהָב. יוּד אָחֲזָה בּוֹ בַּזָּנָב — וְטִפְּסָה.", "sub": "", "source": "חוט הזהב: אמצעי המסע של הסדרה (ספרותי, אין לו מקור)", "layers": [["פשט", "הדיונות הופכות לשורות של המגילה הגדולה, וחוט זהב דק מתפתל ביניהן למעלה וימינה. יוד אוחזת בו בזנבה המסולסל ומטפסת, שמחה."], ["רמז", "לאורך החוט יש בדיוק 15 ניצני לוטוס, כמו 15 מזמורי “שִׁיר הַמַּעֲלוֹת” בתהילים (קכ–קלד), שכנגדם היו 15 מדרגות במקדש. מַעֲלוֹת ווְיָעַל באים מאותו שורש, ע-ל-ה. ביניהם גם “שִׁיר הַמַּעֲלוֹת בְּשׁוּב ה׳ אֶת שִׁיבַת צִיּוֹן הָיִינוּ כְּחֹלְמִים” (תהילים קכו, א). וזה עמוד 15."], ["סוד", "מתוך 15 הניצנים, 5 נמצאים מאחורי יוד, בחלק שכבר טיפסה, ו-10 לפניה. ה׳ היא 5 וי׳ היא 10, ויחד הן יָהּ. “כִּי בְּיָהּ ה׳ צוּר עוֹלָמִים”: העולם הזה נברא בה״א, והעולם הבא ביו״ד. יוד מטפסת מן הה״א אל היו״ד, ומה שמחכה לה בסוף הדרך, בהתחלה, הוא יוד."]], "rec": "B", "v": ["A", "B", "C", "D", "Y"]}, {"id": "p16", "num": "16", "text": "טַק... טַק... טַק... מִי בּוֹנֶה שָׁם?", "sub": "", "source": "רמז לפרק 2: \"לְכוּ וְנִבְנֶה אֶת חוֹמַת יְרוּשָׁלַיִם\" (נחמיה ב, יז). החומה שייכת לימי נחמיה (כ-445 לפנה\"ס), לא לשיירה של 538", "layers": [["פשט", "שחר מוזהב: פינה של חומת אבן ירושלמית בהירה ושבורה ממלאת את השליש הימני של התמונה. חוט הזהב נכנס לתוכה, ויוד מביטה אלינו בסקרנות. מאחורי החומה מישהו בונה: טק, טק, טק."], ["רמז", "הפרצה בחומה היא בדיוק בצורת יוד. וגם בכתיב חסרה לירושלים יוד: כמעט בכל התנ״ך, וגם בפסוק האחרון שלו (“לִבְנוֹת לוֹ בַיִת בִּירוּשָׁלַםִ”), השם נכתב ירושלם, בלי יוד, ונקרא יְרוּשָׁלַיִם. העיר מחכה ליוד שלה."], ["דרש", "אור עובר דרך הפרצה הקטנה, ועל האדמה שלפני החומה הוא נפרש לשער רחב וגבוה. המדרש אומר: “פתחו לי פתח אחד... כחודה של מחט, ואני פותח לכם פתחים שיהיו עגלות וקרוניות נכנסות בו”. פתח קטן כמו יוד, ומעבר לו דרך רחבה לכולם."]], "rec": "B", "v": ["A", "B", "C", "D", "Y"]}], "teaser": "בַּפֶּרֶק הַבָּא: חוֹמָה שְׁבוּרָה, הַרְבֵּה יָדַיִם, וְקוֹל אֶחָד: \"לְכוּ וְנִבְנֶה!\" וּבַחוֹמָה — חוֹר קָטָן אֶחָד, בְּדִיּוּק בַּגֹּדֶל שֶׁל יוּד.", "questions": ["יוּד שָׁאֲלָה: \"מָה יֵשׁ בַּהַתְחָלָה?\" מָה אַתֶּם חוֹשְׁבִים שֶׁהִיא תִּמְצָא?", "הַיַּלְדָּה שָׁאֲלָה: \"גַּם אֲנִי?\" מָתַי הִרְגַּשְׁתֶּם קְטַנִּים — וְגִלִּיתֶם שֶׁגַּם אַתֶּם חֲשׁוּבִים?", "מָה הֱיִיתֶם אוֹרְזִים בַּצְּרוֹר לַדֶּרֶךְ הָאֲרֻכָּה לִירוּשָׁלַיִם?"], "next": "יוּד וְהַחוֹמָה"};
 const P = DATA.pages;                 // 0 = the cover, 1..16 = the story pages
 const END = P.length;                 // one more spread after the last page: the closing pages
 const HEB = ["","א׳","ב׳","ג׳","ד׳","ה׳","ו׳","ז׳","ח׳","ט׳","י׳","י״א","י״ב","י״ג","י״ד","ט״ו","ט״ז"];
 const NAMES = P.map(p => p.id).concat(["end"]);
 const EDS = [
+  {id:"Y", label:"יוד חדשה", cap:"גרסה C עם היוד החדשה, בצורת האות", fallback:"C"},
   {id:"rec", label:"מומלצת", cap:"בכל עמוד: הגרסה שהמלצתי עליה"},
   {id:"A", label:"A", cap:"גרסה A · Nano Banana Pro"},
   {id:"B", label:"B", cap:"גרסה B · Nano Banana 2.1"},
@@ -239,17 +242,23 @@ const DUR = 760, EASE = "cubic-bezier(.32,.06,.2,1)";
 const reduce = matchMedia("(prefers-reduced-motion: reduce)");
 const $ = s => document.querySelector(s);
 const stage = $("#stage"), book = $("#book");
-let idx = 0, ed = "rec", mode = "single", size = {pw:0, ph:0}, sizeKey = "", busy = false, lastOpener = null;
+let idx = 0, ed = "Y", mode = "single", size = {pw:0, ph:0}, sizeKey = "", busy = false, lastOpener = null;
 
 function el(tag, cls, text){ const e = document.createElement(tag); if(cls) e.className = cls; if(text != null) e.textContent = text; return e; }
-function variant(p){ return ed === "rec" ? p.rec : (p.v.includes(ed) ? ed : p.rec); }
+function variant(p){
+  if(ed === "rec") return p.rec;
+  if(p.v.includes(ed)) return ed;
+  const e = EDS.find(x => x.id === ed);
+  return e && e.fallback && p.v.includes(e.fallback) ? e.fallback : p.rec;
+}
+function vname(v){ return v === "Y" ? "C עם היוד החדשה" : v; }
 function src(p, kind){ return kind === "thumb" ? `img/thumb/${p.id}_${variant(p)}.jpg` : `img/full/${p.id}_${variant(p)}.webp`; }
 function tidy(s){ return s.replace(/ —/g, "\u00a0—"); }
 function pageName(i){ return i === 0 ? "הכריכה" : `עמוד ${i}`; }
 
 function art(p){
   const i = new Image();
-  i.className = "art"; i.alt = `איור ל${pageName(P.indexOf(p))}, גרסה ${variant(p)}`; i.draggable = false; i.decoding = "async";
+  i.className = "art"; i.alt = `איור ל${pageName(P.indexOf(p))}, גרסה ${vname(variant(p))}`; i.draggable = false; i.decoding = "async";
   const done = () => i.classList.add("ready");
   i.addEventListener("load", done, {once:true}); i.addEventListener("error", done, {once:true});
   i.src = src(p);
@@ -259,6 +268,7 @@ function art(p){
 function vtag(p){
   const v = variant(p);
   if(ed !== "rec" && v === ed) return null;
+  if(ed === "Y") return null;   // the only page without the new Yud is page 12, which has no Yud at all
   return el("span", "vtag", ed === "rec" ? `גרסה ${v}` : `גרסה ${v} · אין ${ed} לעמוד הזה`);
 }
 function wordplay(){
@@ -451,10 +461,10 @@ function updateBar(){
   for(const b of document.querySelectorAll(".chip")) b.setAttribute("aria-pressed", b.dataset.ed === ed ? "true" : "false");
   $("#edCap").textContent = EDS.find(e => e.id === ed).cap;
 }
-function save(){ try{ localStorage.setItem("yud-reader-ch01", JSON.stringify({idx, ed})); }catch(e){} }
+function save(){ try{ localStorage.setItem("yud-reader-ch01-v2", JSON.stringify({idx, ed})); }catch(e){} }
 function restore(){
   try{
-    const s = JSON.parse(localStorage.getItem("yud-reader-ch01") || "null");
+    const s = JSON.parse(localStorage.getItem("yud-reader-ch01-v2") || "null");
     if(s && EDS.some(e => e.id === s.ed)) ed = s.ed;
     if(s && Number.isInteger(s.idx) && s.idx >= 0 && s.idx <= END) idx = s.idx;
   }catch(e){}

diff --git a/production/reader/template.html b/production/reader/template.html
@@ -46,7 +46,7 @@ header.top{flex:none;display:flex;align-items:center;justify-content:space-betwe
 .t-series{font-size:12px;letter-spacing:.08em;color:var(--chrome-soft)}
 .t-book{font-family:var(--serif);font-weight:700;font-size:21px;line-height:1.2}
 .eds-block{display:flex;flex-direction:column;align-items:flex-end;gap:4px}
-.eds{display:flex;align-items:center;gap:6px}
+.eds{display:flex;align-items:center;justify-content:flex-end;flex-wrap:wrap;gap:6px}
 .eds-label{font-size:13px;color:var(--chrome-soft);margin-inline-end:2px}
 .chip{border:1px solid var(--chip-line);background:var(--chip);border-radius:999px;min-width:40px;height:34px;padding:0 12px;font-size:14px;font-weight:600;cursor:pointer;font-variant-numeric:tabular-nums}
 .chip[aria-pressed="true"]{background:var(--chip-on);border-color:var(--chip-on);color:var(--chip-on-ink)}
@@ -174,6 +174,8 @@ nav.bar{flex:none;display:flex;align-items:center;justify-content:center;gap:10p
   .title-block{display:none}
   header.top{justify-content:center}
   .eds-block{align-items:center}
+  .eds{justify-content:center}
+  .eds-label{display:none}
   .nav .lbl{display:none}
   .nav{width:44px;padding:0;justify-content:center}
   .pos{min-width:7.5em}
@@ -229,6 +231,7 @@ const END = P.length;                 // one more spread after the last page: th
 const HEB = ["","א׳","ב׳","ג׳","ד׳","ה׳","ו׳","ז׳","ח׳","ט׳","י׳","י״א","י״ב","י״ג","י״ד","ט״ו","ט״ז"];
 const NAMES = P.map(p => p.id).concat(["end"]);
 const EDS = [
+  {id:"Y", label:"יוד חדשה", cap:"גרסה C עם היוד החדשה, בצורת האות", fallback:"C"},
   {id:"rec", label:"מומלצת", cap:"בכל עמוד: הגרסה שהמלצתי עליה"},
   {id:"A", label:"A", cap:"גרסה A · Nano Banana Pro"},
   {id:"B", label:"B", cap:"גרסה B · Nano Banana 2.1"},
@@ -239,17 +242,23 @@ const DUR = 760, EASE = "cubic-bezier(.32,.06,.2,1)";
 const reduce = matchMedia("(prefers-reduced-motion: reduce)");
 const $ = s => document.querySelector(s);
 const stage = $("#stage"), book = $("#book");
-let idx = 0, ed = "rec", mode = "single", size = {pw:0, ph:0}, sizeKey = "", busy = false, lastOpener = null;
+let idx = 0, ed = "Y", mode = "single", size = {pw:0, ph:0}, sizeKey = "", busy = false, lastOpener = null;
 
 function el(tag, cls, text){ const e = document.createElement(tag); if(cls) e.className = cls; if(text != null) e.textContent = text; return e; }
-function variant(p){ return ed === "rec" ? p.rec : (p.v.includes(ed) ? ed : p.rec); }
+function variant(p){
+  if(ed === "rec") return p.rec;
+  if(p.v.includes(ed)) return ed;
+  const e = EDS.find(x => x.id === ed);
+  return e && e.fallback && p.v.includes(e.fallback) ? e.fallback : p.rec;
+}
+function vname(v){ return v === "Y" ? "C עם היוד החדשה" : v; }
 function src(p, kind){ return kind === "thumb" ? `img/thumb/${p.id}_${variant(p)}.jpg` : `img/full/${p.id}_${variant(p)}.webp`; }
 function tidy(s){ return s.replace(/ —/g, "\u00a0—"); }
 function pageName(i){ return i === 0 ? "הכריכה" : `עמוד ${i}`; }
 
 function art(p){
   const i = new Image();
-  i.className = "art"; i.alt = `איור ל${pageName(P.indexOf(p))}, גרסה ${variant(p)}`; i.draggable = false; i.decoding = "async";
+  i.className = "art"; i.alt = `איור ל${pageName(P.indexOf(p))}, גרסה ${vname(variant(p))}`; i.draggable = false; i.decoding = "async";
   const done = () => i.classList.add("ready");
   i.addEventListener("load", done, {once:true}); i.addEventListener("error", done, {once:true});
   i.src = src(p);
@@ -259,6 +268,7 @@ function art(p){
 function vtag(p){
   const v = variant(p);
   if(ed !== "rec" && v === ed) return null;
+  if(ed === "Y") return null;   // the only page without the new Yud is page 12, which has no Yud at all
   return el("span", "vtag", ed === "rec" ? `גרסה ${v}` : `גרסה ${v} · אין ${ed} לעמוד הזה`);
 }
 function wordplay(){
@@ -451,10 +461,10 @@ function updateBar(){
   for(const b of document.querySelectorAll(".chip")) b.setAttribute("aria-pressed", b.dataset.ed === ed ? "true" : "false");
   $("#edCap").textContent = EDS.find(e => e.id === ed).cap;
 }
-function save(){ try{ localStorage.setItem("yud-reader-ch01", JSON.stringify({idx, ed})); }catch(e){} }
+function save(){ try{ localStorage.setItem("yud-reader-ch01-v2", JSON.stringify({idx, ed})); }catch(e){} }
 function restore(){
   try{
-    const s = JSON.parse(localStorage.getItem("yud-reader-ch01") || "null");
+    const s = JSON.parse(localStorage.getItem("yud-reader-ch01-v2") || "null");
     if(s && EDS.some(e => e.id === s.ed)) ed = s.ed;
     if(s && Number.isInteger(s.idx) && s.idx >= 0 && s.idx <= END) idx = s.idx;
   }catch(e){}

diff --git a/production/reader/build.py b/production/reader/build.py
@@ -4,7 +4,7 @@ Page text, sources, layers, variants and recommended picks come from production/
 the closing pages (teaser, questions, next chapter) come from books/yud-vayaal/story.json.
 Publish index.html as a claude.ai artifact with these files:
 img/full/<name>.webp -> assets/frames/ch01/full/<name>.webp, img/thumb/<name>.jpg -> assets/frames/ch01/thumb/<name>.jpg,
-img/yud-joy.webp -> production/reader/yud-joy.webp.
+img/yud-joy.webp -> production/reader/yud-joy.webp (the new letter-shaped Yud).
 """
 import json
 import pathlib
@@ -13,9 +13,10 @@ here = pathlib.Path(__file__).parent
 root = here.parent.parent
 pages = json.loads((root / "production/review/pages.json").read_text(encoding="utf-8"))
 story = json.loads((root / "books/yud-vayaal/story.json").read_text(encoding="utf-8"))
+redrawn = json.loads((root / "production/ch01-yud2.json").read_text(encoding="utf-8"))["picks"]  # pages with version C redrawn with the new Yud (variant "Y")
 
 data = {
-    "pages": [{k: p[k] for k in ("id", "num", "text", "sub", "source", "layers", "v", "rec")} for p in pages],
+    "pages": [{**{k: p[k] for k in ("id", "num", "text", "sub", "source", "layers", "rec")}, "v": p["v"] + (["Y"] if p["id"] in redrawn else [])} for p in pages],
     "teaser": story["teaser"],
     "questions": story["questions"],
     "next": story["nextChapters"][0]["title"],
